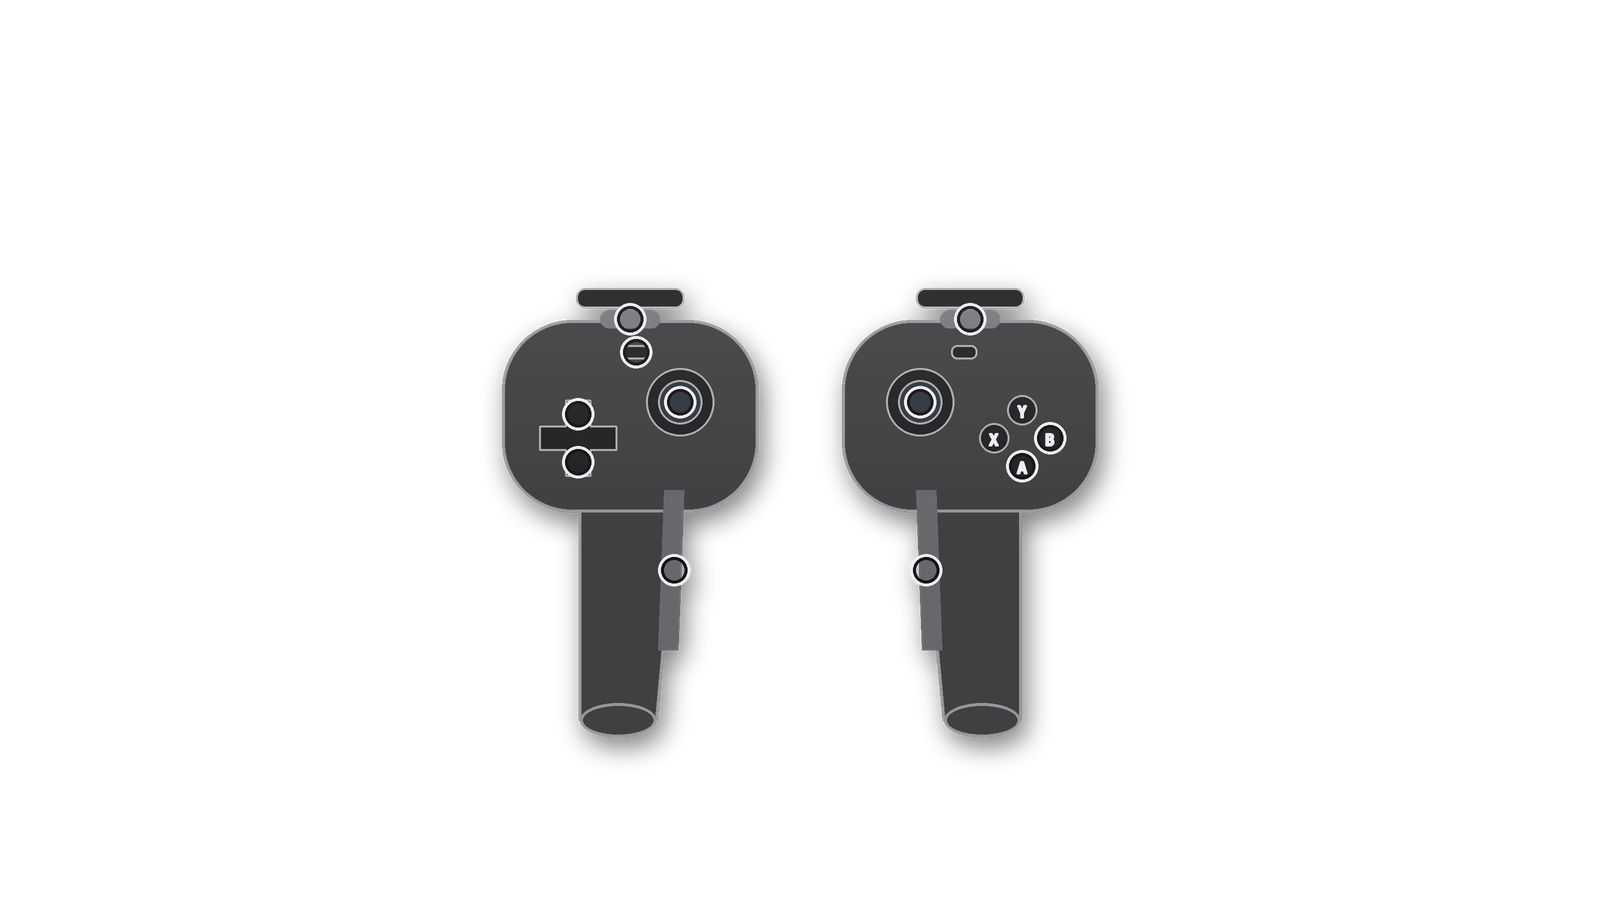
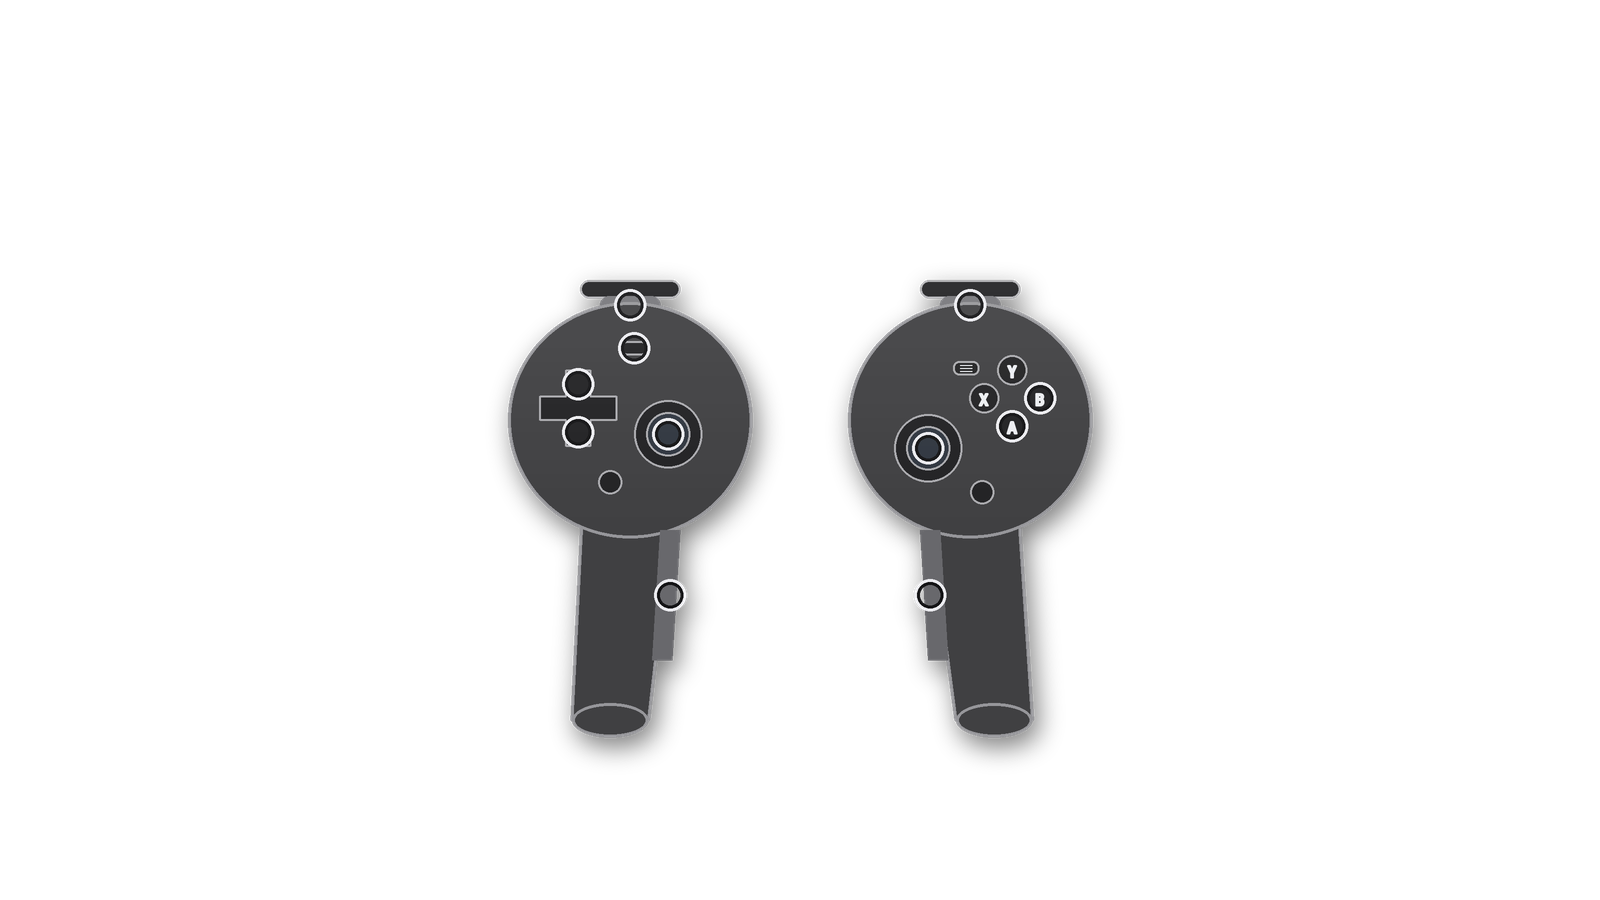
Steam Frame pictures: round disc heads and button places from a photo

Changed region(s): [[0.3125, 0.3111, 0.7188, 0.84]]

diff --git a/tools/vr-controls/make_controls.py b/tools/vr-controls/make_controls.py
@@ -303,52 +303,61 @@ def wmr(s, cx, cy, hand):
 
 
 def frame(s, cx, cy, hand):
-    """Steam Frame: a handle under a round face, no ring. A bumper over the
-    trigger, like a gamepad's; the stick by the thumb; on the left a D-pad and
-    View, on the right A, B, X and Y and Menu (Valve's Steamworks input page:
-    /interaction_profiles/valve/frame_controller_valve)."""
+    """Steam Frame (from a photo of the pair): a round disc for a head on a
+    curved handle, no ring. Left: the D-pad on the outer side, the stick in
+    toward the thumb, View between them at the top, the Steam button below.
+    Right: the stick low and in, A, B, X and Y up and out (Y top, A bottom),
+    Menu beside Y, the Steam button below the stick. Trigger under the disc,
+    a bumper over it (not seen from the front)."""
     m = hand
-    s.poly([(cx - 50, cy + 40), (cx + 50, cy + 40), (cx + 38 + 12 * m, cy + 300),
-            (cx - 38 + 12 * m, cy + 300)], fill=BODY, outline=BODY_EDGE, width=3)
-    s.ellipse(cx + 12 * m, cy + 300, 38, 17, fill=BODY, outline=BODY_EDGE, width=3)
-    s.rrect(cx - 128, cy - 100, cx + 128, cy + 92, 70, fill=BODY, outline=BODY_EDGE, width=3)
-    # Bumper over the trigger, both along the top front
-    s.rrect(cx - 54, cy - 132, cx + 54, cy - 112, 9, fill=PART, outline=PART_EDGE, width=2)
-    s.rrect(cx - 30, cy - 110, cx + 30, cy - 92, 9, fill=COLOURS["trigger"])
-    gx = cx - 44 * m
-    s.poly([(gx - 10, cy + 70), (gx + 10, cy + 70), (gx + 10 + 6 * m, cy + 230),
-            (gx - 10 + 6 * m, cy + 230)], fill=COLOURS["grip"])
-    st = (cx - 50 * m, cy - 18)
-    stick(s, *st, r=28)
-    c = (cx + 52 * m, cy + 18)
-    pts = {"trigger": (cx, cy - 101), "grip": (gx, cy + 150), "stick": st,
-           "bumper": (cx, cy - 122)}
+    # Handle, curving down and in under the disc
+    s.poly([(cx - 46, cy + 60), (cx + 46, cy + 60), (cx + 40 + 22 * m, cy + 300),
+            (cx - 36 + 22 * m, cy + 300)], fill=BODY, outline=BODY_EDGE, width=3)
+    s.ellipse(cx + 2 + 22 * m, cy + 300, 38, 17, fill=BODY, outline=BODY_EDGE, width=3)
+    # Bumper and trigger at the top front
+    s.rrect(cx - 50, cy - 140, cx + 50, cy - 122, 9, fill=PART, outline=PART_EDGE, width=2)
+    s.rrect(cx - 30, cy - 124, cx + 30, cy - 106, 9, fill=COLOURS["trigger"])
+    # The disc
+    s.ellipse(cx, cy, 122, 118, fill=BODY, outline=BODY_EDGE, width=3)
+    gx = cx - 40 * m
+    s.poly([(gx - 10, cy + 110), (gx + 10, cy + 110), (gx + 10 + 8 * m, cy + 240),
+            (gx - 10 + 8 * m, cy + 240)], fill=COLOURS["grip"])
+    pts = {"trigger": (cx, cy - 115), "grip": (gx, cy + 175), "bumper": (cx, cy - 131)}
     if m < 0:
-        # D-pad: a cross
+        st = (cx + 38, cy + 14)
+        stick(s, *st, r=28)
+        c = (cx - 52, cy - 12)
         a, b = 12, 38
         x0, y0 = c
         s.poly([(x0 - a, y0 - b), (x0 + a, y0 - b), (x0 + a, y0 - a), (x0 + b, y0 - a),
                 (x0 + b, y0 + a), (x0 + a, y0 + a), (x0 + a, y0 + b), (x0 - a, y0 + b),
                 (x0 - a, y0 + a), (x0 - b, y0 + a), (x0 - b, y0 - a), (x0 - a, y0 - a)],
                fill=PART, outline=PART_EDGE, width=2)
-        pts["lo"] = (c[0], c[1] + 24)
-        pts["hi"] = (c[0], c[1] - 24)
-        view = (cx + 6, cy - 68)
+        pts["lo"] = (x0, y0 + 24)
+        pts["hi"] = (x0, y0 - 24)
+        view = (cx + 4, cy - 72)
         s.rrect(view[0] - 13, view[1] - 7, view[0] + 13, view[1] + 7, 6, fill=PART,
                 outline=PART_EDGE, width=2)
         pts["view"] = view
+        steam = (cx - 20, cy + 62)
     else:
-        # A, B, X, Y in a diamond: Y top, A bottom, X toward the stick, B out
+        st = (cx - 42, cy + 28)
+        stick(s, *st, r=28)
+        c = (cx + 42, cy - 22)
         for key, (dx, dy), letter in (("y", (0, -28), "Y"), ("lo", (0, 28), "A"),
                                       ("x", (-28, 0), "X"), ("b", (28, 0), "B")):
             button(s, c[0] + dx, c[1] + dy, 15, letter)
             pts[key] = (c[0] + dx, c[1] + dy)
-        # The secondary is B (and X, Y as well): its marker on B
-        pts["hi"] = pts["b"]
-        menu = (cx - 6, cy - 68)
+        pts["hi"] = pts["b"]  # the secondary is B (and X, Y as well)
+        menu = (c[0] - 46, c[1] - 30)
         s.rrect(menu[0] - 13, menu[1] - 7, menu[0] + 13, menu[1] + 7, 6, fill=PART,
                 outline=PART_EDGE, width=2)
+        for k in (-3, 0, 3):
+            s.line([(menu[0] - 6, menu[1] + k), (menu[0] + 6, menu[1] + k)], TEXT, 1)
         pts["menu"] = menu
+        steam = (cx + 12, cy + 72)
+    s.ellipse(steam[0], steam[1], 12, 12, fill=PART, outline=PART_EDGE, width=2)
+    pts["stick"] = st
     return pts
 
 
